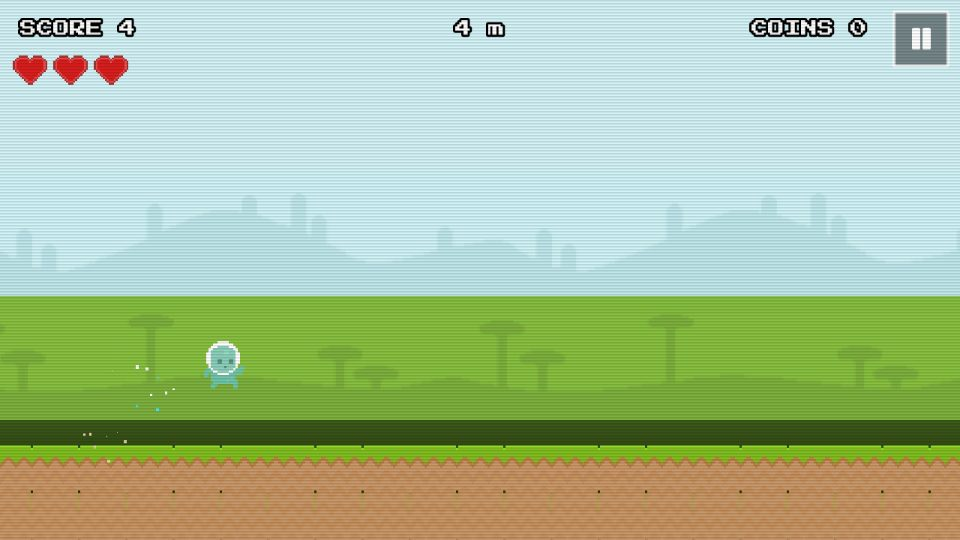
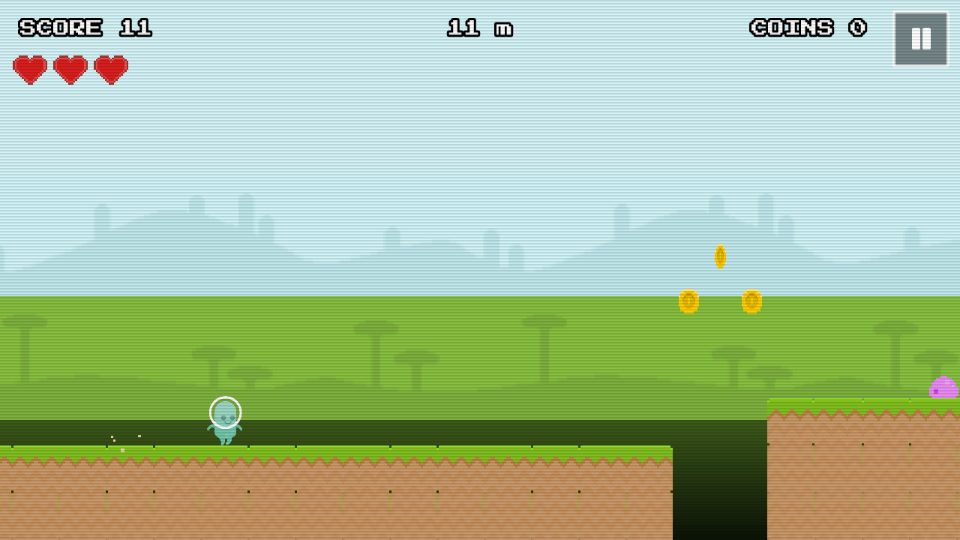
Pixel Runner plays as the player's chosen character
- The runner uses the pc-* poses (walk1/walk2 running, jump in the air, hit when hurt and on
  death), drawn as tall as the old tile hero with its feet on the same hitbox bottom
- The game draws with pixelArt sampling; the character textures get linear filtering so the
  scaled-down vector art stays smooth
- New store art; registry regenerated (it still had Sky Jumper's old description)
- Skill: how to use characters in a pixelArt game

Claude-Session: https://claude.ai/code/session_0175vXZr811A8hQZq6oHnsLr

diff --git a/games/pixel-runner/PlayScene.ts b/games/pixel-runner/PlayScene.ts
@@ -1,5 +1,5 @@
 import Phaser from 'phaser';
-import { ArcadeScene, burst, shake, flash, popup, t, txt, rng } from '@core';
+import { ArcadeScene, CHARACTER_FRAME, burst, shake, flash, popup, t, txt, rng } from '@core';
 
 /** pixel-platformer tilemap_packed frames (21 px tiles, 30 per row). */
 export const F = {
@@ -16,6 +16,10 @@ const S = 3, T = 21 * S;                     // scale and tile size in world px
 const PX = 300;                              // runner's screen x
 const GRAV = 2700, JUMP = -1000, JUMP2 = -900, CUT = -380;
 const HW = 18, HH = 26;                      // runner half extents (hitbox)
+// The runner is the player's chosen character (pc-* textures, see main.ts), drawn as tall as the
+// old 21 px tile at scale 3 and centred on its frame, so its feet land on the hitbox bottom.
+export const HERO_SCALE = 62 / CHARACTER_FRAME.standHeight;
+const HERO_FEET = (CHARACTER_FRAME.originY - 0.5) * CHARACTER_FRAME.height * HERO_SCALE;
 const TOPS = [720 - 2 * T, 720 - 3 * T, 720 - 4 * T];
 
 interface Seg { x: number; w: number; top: number; float: boolean; objs: Phaser.GameObjects.GameObject[] }
@@ -71,7 +75,7 @@ export class PlayScene extends ArcadeScene {
     while (this.genX < width * 2) this.generate();
 
     this.py = TOPS[0] - HH;
-    this.player = this.add.sprite(PX, this.py, 'pp', F.run[0]).setScale(S).setDepth(20);
+    this.player = this.add.sprite(PX, this.py, 'pc-walk1').setScale(HERO_SCALE).setDepth(20);
 
     for (let i = 0; i < 3; i++) this.hearts.push(this.add.image(40 + i * 54, 92, 'pp', F.heart).setScale(2.4).setScrollFactor(0).setDepth(9000));
     this.updateHud();
@@ -250,7 +254,7 @@ export class PlayScene extends ArcadeScene {
 
   private die(): void {
     this.dead = true;
-    this.player.setFrame(F.hurt).setFlipY(true);
+    this.player.setTexture('pc-hit').setFlipY(true);
     this.vy = -900;
     this.time.delayedCall(150, () => this.sfx('die', { volume: 0.6, exact: true }));
     burst(this, this.scroll + PX, this.py, [0xec3013, 0xffd23f], 30, 380);
@@ -326,9 +330,9 @@ export class PlayScene extends ArcadeScene {
 
     // runner sprite
     this.animT += dt * (this.speed / 380);
-    if (this.grounded) this.player.setFrame(F.run[Math.floor(this.animT * 9) % 2]);
-    else this.player.setFrame(F.jump);
-    this.player.setPosition(this.scroll + PX, this.py - 4);
+    if (this.grounded) this.player.setTexture(Math.floor(this.animT * 9) % 2 ? 'pc-walk2' : 'pc-walk1');
+    else this.player.setTexture(this.invuln > 1.2 ? 'pc-hit' : 'pc-jump');
+    this.player.setPosition(this.scroll + PX, this.py + HH - HERO_FEET);
     this.player.setAlpha(this.invuln > 0 ? (Math.floor(this.invuln * 14) % 2 ? 0.35 : 1) : 1);
     this.cameras.main.scrollX = this.scroll;
     this.bgFar.tilePositionX = this.scroll * 0.05;

diff --git a/games/pixel-runner/main.ts b/games/pixel-runner/main.ts
@@ -1,6 +1,6 @@
-import { launch, kenney, loadAudio, type GameMeta } from '@core';
+import { launch, kenney, loadAudio, loadCharacter, CHARACTER_FRAME, Phaser, type GameMeta } from '@core';
 import meta from './game.json';
-import { PlayScene, F } from './PlayScene';
+import { PlayScene, F, HERO_SCALE } from './PlayScene';
 
 launch({
   meta: meta as GameMeta,
@@ -11,6 +11,13 @@ launch({
     const l = scene.load;
     l.spritesheet('pp', kenney('pixel-platformer/tilemap/tilemap_packed.png'), { frameWidth: 21, frameHeight: 21 });
     l.spritesheet('ppbg', kenney('pixel-platformer/backgrounds/backgrounds.png'), { frameWidth: 231, frameHeight: 63 });
+    // The player's chosen character. The game draws with pixelArt (nearest) sampling; these are
+    // smooth vector art scaled down, so they keep linear filtering.
+    const poses = ['walk1', 'walk2', 'jump', 'hit'] as const;
+    loadCharacter(l, { poses });
+    l.once('complete', () => {
+      for (const pose of poses) scene.textures.get(`pc-${pose}`).setFilter(Phaser.Textures.FilterMode.LINEAR);
+    });
     const J = 'oga/junkala-sfx/';
     const M = J + 'movement/jumping-and-landing/';
     loadAudio(l, 'jump', M + 'sfx-movement-jump9');
@@ -32,9 +39,9 @@ launch({
     scene.add.tileSprite(0, height - 200, width, 252, 'ppbg', 1).setOrigin(0).setTileScale(4).setAlpha(0.5);
     scene.add.tileSprite(0, height - 63, width, 63, 'pp', F.top).setOrigin(0).setTileScale(3);
     scene.cameras.main.setBackgroundColor('#1d2a3a');
-    const runner = scene.add.sprite(140, height - 63 - 30, 'pp', F.run[0]).setScale(3);
+    const runner = scene.add.sprite(140, height - 63, 'pc-walk1').setOrigin(0.5, CHARACTER_FRAME.originY).setScale(HERO_SCALE * 1.3);
     let f = 0;
-    scene.time.addEvent({ delay: 110, loop: true, callback: () => runner.setFrame(F.run[++f % 2]) });
+    scene.time.addEvent({ delay: 110, loop: true, callback: () => runner.setTexture(++f % 2 ? 'pc-walk2' : 'pc-walk1') });
     scene.tweens.add({ targets: runner, x: width - 140, duration: 5200, yoyo: true, repeat: -1, onYoyo: () => runner.setFlipX(true), onRepeat: () => runner.setFlipX(false) });
     for (let i = 0; i < 5; i++) {
       const c = scene.add.image(300 + i * 160, height - 140, 'pp', F.coin).setScale(3);

diff --git a/.claude/skills/ayvago-new-game/SKILL.md b/.claude/skills/ayvago-new-game/SKILL.md
@@ -105,7 +105,9 @@ Other helpers from `@core`:
   `pc-jump`, `pc-hit`, `pc-duck`, `pc-climb1/2`, `pc-swim1/2`. All frames share
   `CHARACTER_FRAME` (144x176, feet at `originY`): size the sprite by `standHeight`. Rivals and
   bots: `otherCharacters(playerCharacter())`; online opponent: `peerCharacter()`. Test any
-  character with `?character=<id>`. Pixel-art games keep their own sprites.
+  character with `?character=<id>`. In a `pixelArt` game, give the pc-* textures linear filtering
+  (`setFilter(Phaser.Textures.FilterMode.LINEAR)`) so the scaled-down vector art stays smooth (see
+  `games/pixel-runner/main.ts`).
 - **Look before you use.** Open the PNGs or tilesheets with the Read tool to see them before picking frames.
 - **No network.** Never load anything from the network. If something is missing, draw it with Graphics/shapes, or generate a texture with `scene.make.graphics(...).generateTexture(key, w, h)`.
 - **Sound.** Use sounds generously but at sane volumes. Good sources:
